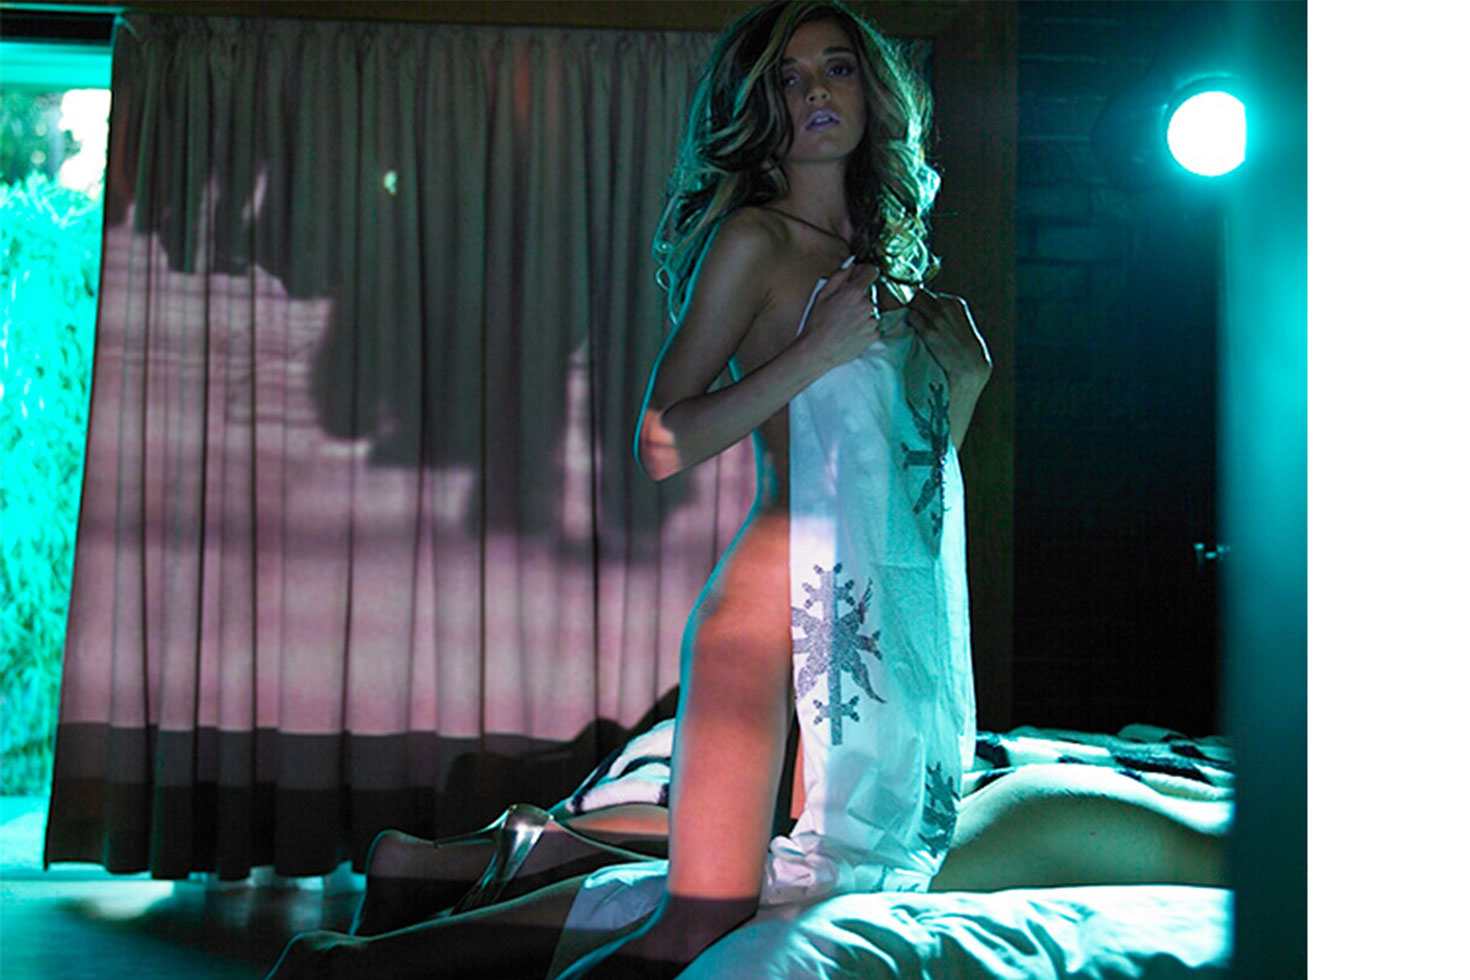
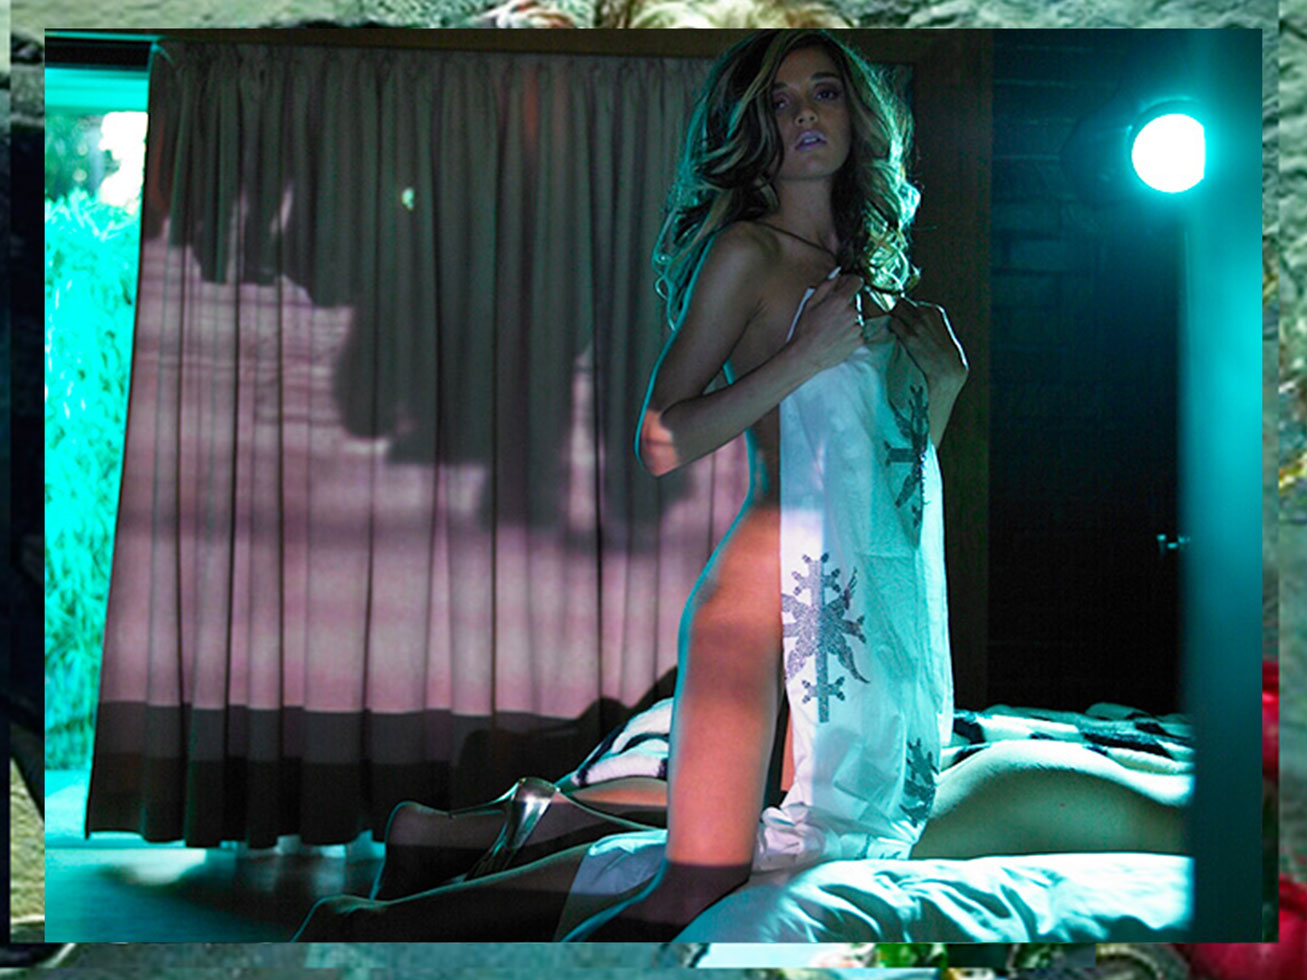
Updated the backgrounds of some of the new pages.

diff --git a/public_html/css/dist/pages/questions.css b/public_html/css/dist/pages/questions.css
@@ -1,1 +1,1 @@
-body{min-width:765px;font-size:2em;letter-spacing:-2px}#container{background-image:url(../../images/backgrounds/questions.jpg);padding-bottom:66.6667%;color:#b4b4ac}#content>article{line-height:.8;font-size:1.1em}#content>header a{color:#b4b4ac;text-decoration:none}#content>article a{color:#fff;text-decoration:none}h2{font-size:1.82em;letter-spacing:-4px;font-weight:600;margin-top:9%}#content>article p{margin:0}#content>article p:nth-child(1){text-indent:7%}#content>article p:nth-child(2){text-indent:8%}#content>article p:nth-child(3){text-indent:9%}#content>article p:nth-child(4){text-indent:10%}#content>article p:nth-child(5){text-indent:11%}#content>article #set-2{font-style:italic;margin-top:.5%}#content>article #set-2 p{text-indent:19%}#content>footer{margin-top:5%;text-align:right}
+body{min-width:765px;font-size:2em;letter-spacing:-2px}#container{background-image:url(../../images/backgrounds/questions.jpg);padding-bottom:66.6667%;color:#b4b4ac;padding-left:3.5%}#content>article{line-height:.8;font-size:1.1em}#content>header a{color:#b4b4ac;text-decoration:none}#content>article a{color:#fff;text-decoration:none}h2{font-size:1.82em;letter-spacing:-4px;font-weight:600;margin-top:9%}#content>article p{margin:0}#content>article p:nth-child(1){text-indent:7%}#content>article p:nth-child(2){text-indent:8%}#content>article p:nth-child(3){text-indent:9%}#content>article p:nth-child(4){text-indent:10%}#content>article p:nth-child(5){text-indent:11%}#content>article #set-2{font-style:italic;margin-top:.5%}#content>article #set-2 p{text-indent:19%}#content>footer{margin-top:5%;text-align:right}

diff --git a/public_html/css/dist/pages/login.css b/public_html/css/dist/pages/login.css
@@ -1,1 +1,1 @@
-body{background-image:url(../../images/backgrounds/login.jpg);background-size:auto 100%}#content>h2,#masthead>h1{line-height:.8em;margin:0}#masthead>h1{font-size:8em;letter-spacing:-.08em}#container{width:44%;height:100%;text-align:right;padding:7% 0 23%}#content>h2{text-transform:lowercase;font-size:4em;letter-spacing:-.07em;margin-bottom:10%}#content form{padding-right:5%}#content label{font-size:1.2em;display:block;margin-bottom:3%}#content label>input{margin-left:.5em;border:none;outline:0;padding:0 .2em}input[type=submit]{color:#b1cbbd;padding:.1em .3em;margin-top:1%}
+body{background-image:url(../../images/backgrounds/login.jpg);background-size:auto 100%}#content>h2,#masthead>h1{line-height:.8em;margin:0}#masthead>h1{font-size:8em;letter-spacing:-.08em}#container{width:48.5%;height:100%;text-align:right;padding:7% 0 23%}#content>h2{text-transform:lowercase;font-size:4em;letter-spacing:-.07em;margin-bottom:10%}#content form{padding-right:5%}#content label{font-size:1.2em;display:block;margin-bottom:3%}#content label>input{margin-left:.5em;border:none;outline:0;padding:0 .2em}input[type=submit]{color:#b1cbbd;padding:.1em .3em;margin-top:1%}

diff --git a/public_html/css/dist/pages/welcome.css b/public_html/css/dist/pages/welcome.css
@@ -1,1 +1,1 @@
-body{min-width:765px;font-size:2em;letter-spacing:-2px}#container{background-image:url(../../images/backgrounds/welcome.jpg);padding-bottom:74.96%}#content{padding:2% 1% 0}h2{font-size:1.65em;letter-spacing:-4px;margin:0}#content>article{line-height:1}#content>footer{position:absolute;right:3%;bottom:3%}#content>footer p{margin:0}#welcome-links{margin-top:5%;width:100%;overflow:auto}#welcome-links>a{color:#fff;text-decoration:none}#welcome-links>a:first-child{float:left;color:#c8ecdb}#welcome-links>a:last-child{float:right;color:#f1f5c1}
+body{min-width:765px;font-size:2em;letter-spacing:-2px}#container{background-image:url(../../images/backgrounds/welcome.jpg);padding-bottom:74.96%;border:.45em solid #433c3c;background-size:auto 100%}#content{padding:2% 1% 0}h2{font-size:1.65em;letter-spacing:-4px;margin:0}#content>article{line-height:1}#content>footer{position:absolute;right:3%;bottom:3%}#content>footer p{margin:0}#welcome-links{margin-top:5%;width:100%;overflow:auto}#welcome-links>a{color:#fff;text-decoration:none}#welcome-links>a:first-child{float:left;color:#c8ecdb}#welcome-links>a:last-child{float:right;color:#f1f5c1}

diff --git a/public_html/css/src/pages/questions.css b/public_html/css/src/pages/questions.css
@@ -5,8 +5,9 @@ body {
 }
 #container {
   background-image:url(../../images/backgrounds/questions.jpg);
-	padding-bottom:66.6667%;
+  padding-bottom:66.6667%;
   color: #b4b4ac;
+  padding-left:3.5%;
 }
 #content > article {
   line-height: 0.8;

diff --git a/public_html/css/src/pages/welcome.css b/public_html/css/src/pages/welcome.css
@@ -6,6 +6,8 @@ body {
 #container {
   background-image:url(../../images/backgrounds/welcome.jpg);
 	padding-bottom:74.96%;
+	border:0.45em solid rgb(67, 60, 60);
+	background-size:auto 100%;
 }
 #content {
 	padding:2% 1% 0;

diff --git a/public_html/css/src/pages/login.css b/public_html/css/src/pages/login.css
@@ -11,7 +11,7 @@ body {
 	letter-spacing:-0.08em;
 }
 #container {
-	width:44%;
+	width:48.5%;
 	height:100%;
 	text-align:right;
 	padding:7% 0 23% 0;
